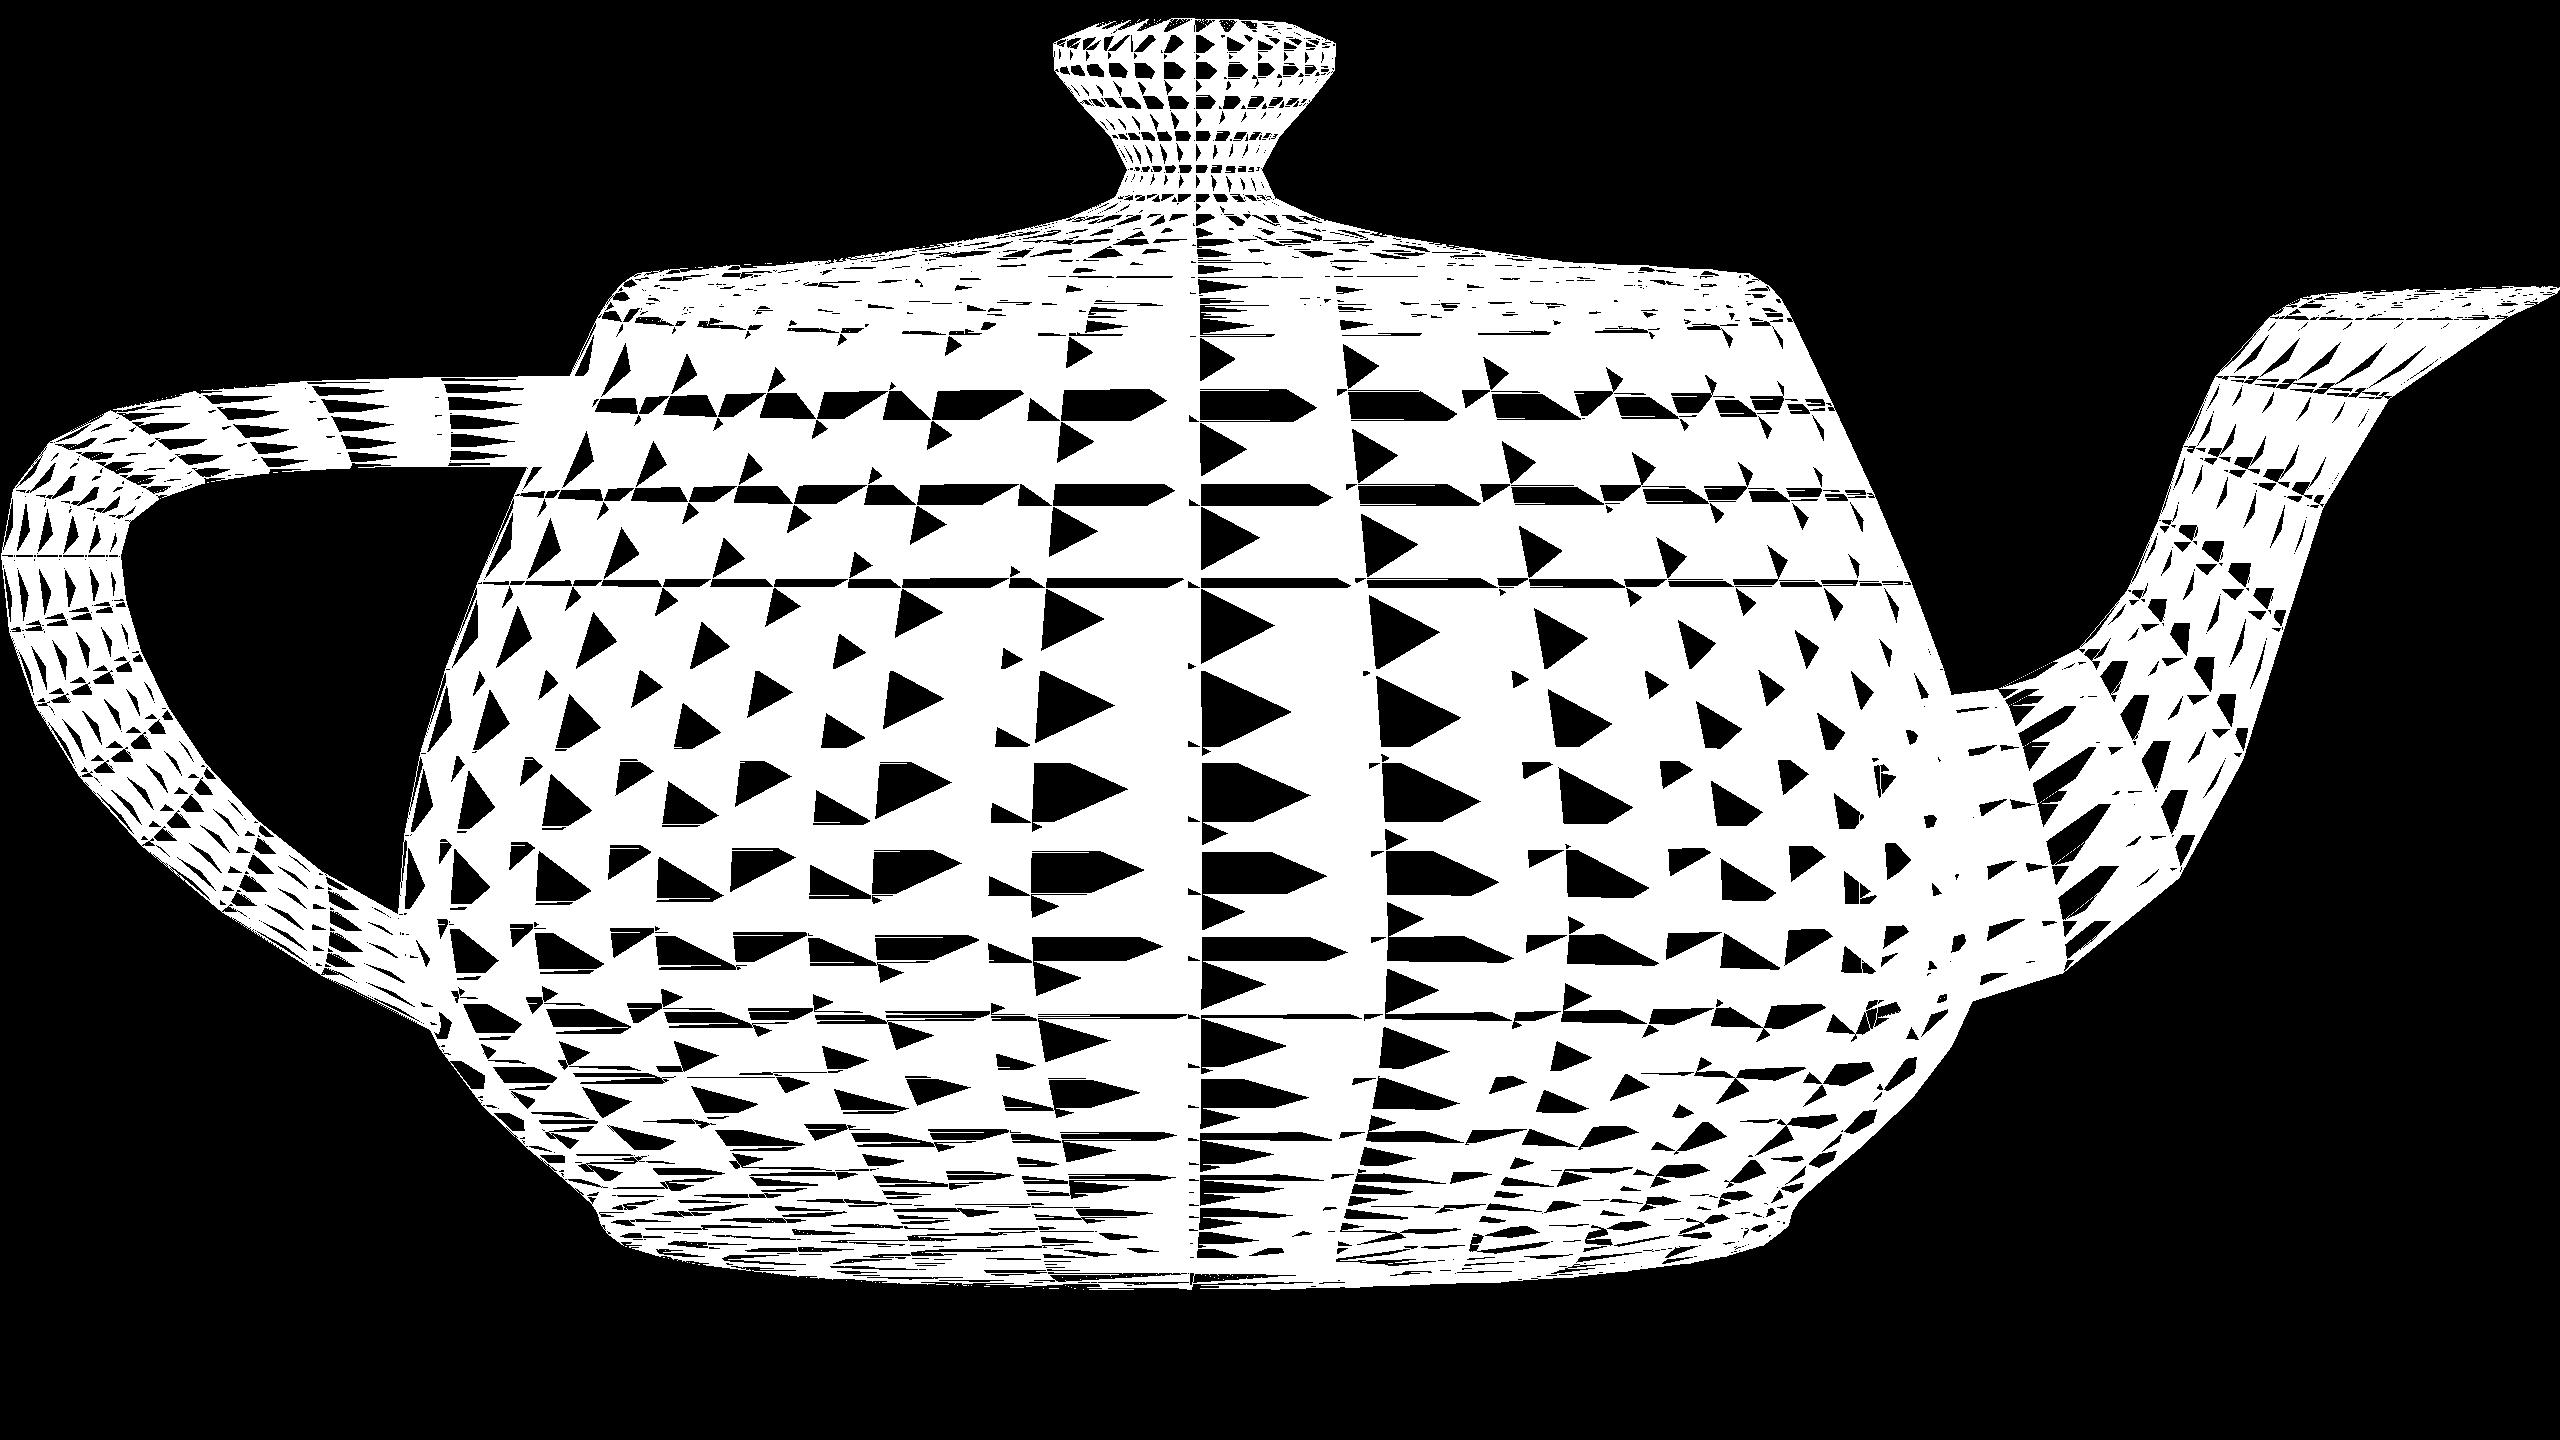
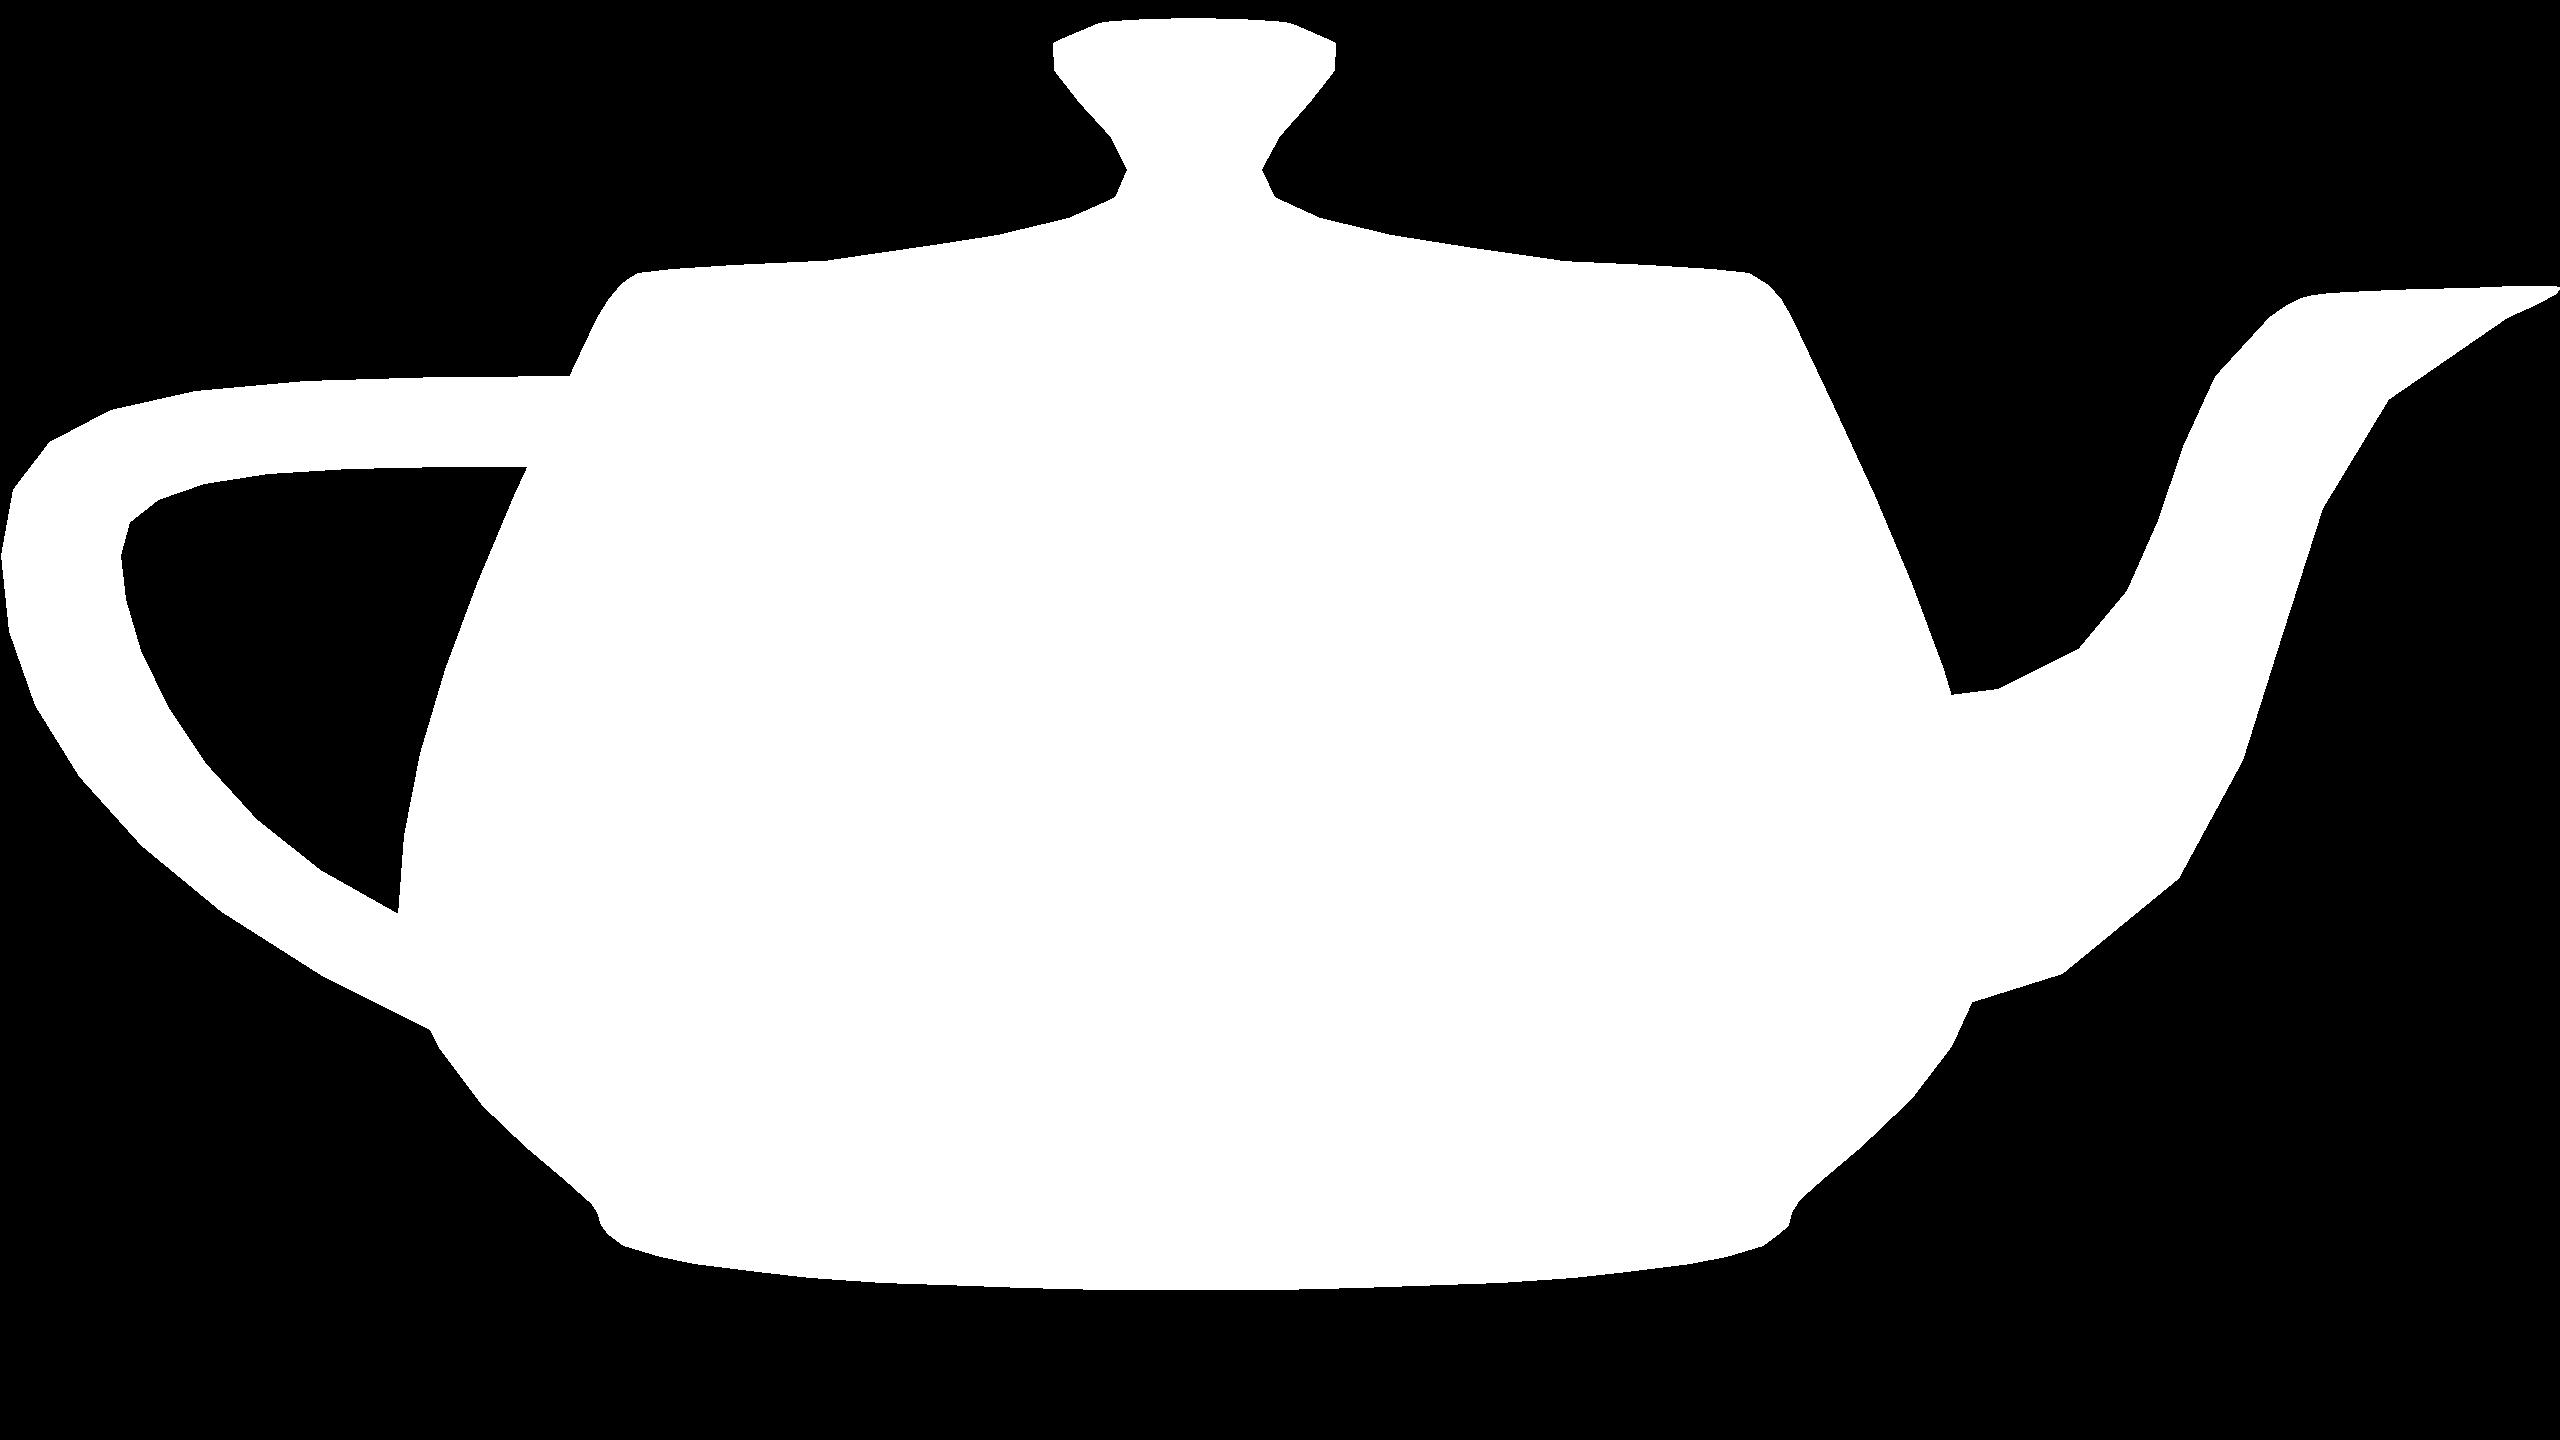
Fixed triangle render bug

diff --git a/Rasterizer-and-Ray-Tracer/src/main/java/Rasterizer.java b/Rasterizer-and-Ray-Tracer/src/main/java/Rasterizer.java
@@ -1,5 +1,6 @@
 package main.java;
 
+import java.awt.Color;
 import java.io.IOException;
 import java.util.ArrayList;
 import java.util.Comparator;
@@ -91,7 +92,7 @@ public class Rasterizer {
 			}
 			
 			for(int x=startX; x<=endX; x++) {
-				if(x < imageBuffer.getWidth() && y < imageBuffer.getHeight() ) {
+				if(x < imageBuffer.getWidth() && x > 0 && y < imageBuffer.getHeight() && y > 0) {
 					if(zBuffer.check(x, y, z)) {
 						// Paint pixel
 						imageBuffer.paintPixel(x,y);
@@ -157,19 +158,33 @@ public class Rasterizer {
 		for(int i=0; i<lines.length; i++) {
 			//i.e for each point in line
 			for(int j=0; j<lines[i].length; j++) {
+				int y = (int) lines[i][j][1];
 				
-				if(edgeList.containsKey((int) lines[i][j][1])) {
+				if(edgeList.containsKey(y)) {
 					float[] xz = {lines[i][j][0], lines[i][j][2]};
-					// Sort the floats[] by values of x
-					if(xz[0] < edgeList.get((int) lines[i][j][1]).getFirst()[0]) {
-						edgeList.get((int) lines[i][j][1]).add(0, xz);
+					
+					// Inset xz to the correct place in the linked list
+					boolean set = false;
+					for(int k=0; k<edgeList.get(y).size(); k++) {
+						float[] current = edgeList.get(y).get(k);
+						
+						if(xz[0] < current[0]) {
+							edgeList.get(y).add(k, xz);
+							set = true;
+							break;
+						}
 					}
+					
+					if(!set) {
+						edgeList.get(y).addLast(xz);
+					}
+					
 				}
 				else {
 					LinkedList<float[]> values = new LinkedList<float[]>();
 					float[] xz = {lines[i][j][0], lines[i][j][2]};
 					values.add(xz);
-					edgeList.put((int) lines[i][j][1], values);
+					edgeList.put(y, values);
 				}
 			}
 		}
@@ -190,28 +205,35 @@ public class Rasterizer {
 	 * @returns line The coordinates of the edge connecting two vertices with their corresponding z.
 	 */
 	private float[][] bresenham(int startX, int startY, float startZ, int endX, int endY, float endZ) {
+		
 		float[][] line = null;
 		
+		// Make sure startX < endX
 		if (startX > endX) {
 			line = bresenham(endX, endY, endZ, startX, startY, startZ);
 			return line;
 		}
 		else {
 			double gradient = 0;
-			
 			if((endY-startY) != 0) {
 				gradient = (double)(endY-startY)/(double)(endX-startX);
 			}
 			
+			// Negative gradient
 			if (gradient < 0) {
+				// Flip y signs and rerun
 				line = bresenham(startX, -startY, startZ, endX, -endY, endZ);
+				// Return y signs back to normal
 				for(int i=0; i<line.length; i++) {
 					line[i][1] *= -1;
 				}
 				return line;
 			}
+			// Gradient > 1
 			else if (gradient > 1) {
+				// Swap X and Y
 				line = bresenham(startY, startX, startZ, endY, endX, endZ);
+				// Swap X and Y back
 				for(int i=0; i<line.length; i++) {
 					float temp = line[i][0];
 					line[i][0] = line[i][1];
@@ -219,6 +241,7 @@ public class Rasterizer {
 				}
 				return line;
 			}
+			// 0 <= Gradient <= 1
 			else {
 				ArrayList<ArrayList<Integer>> points = new ArrayList<ArrayList<Integer>>();
 				int x = startX;
@@ -226,6 +249,7 @@ public class Rasterizer {
 				int dx = endX-startX;
 				int dy = endY-startY;
 				int d = (2*dy)-dx;
+				
 				while (x <= endX) {
 					ArrayList<Integer> point = new ArrayList<Integer>();
 					point.add(x);
@@ -243,17 +267,14 @@ public class Rasterizer {
 				
 				line = new float[points.size()][3];
 				
+				// Interpolate Z values along line
+				line[0][2] = Math.round(startZ*10f)/10f;
+				float zInc = (endZ-startZ)/((float)line.length-1f);
+				
 				for(int i=0; i<points.size(); i++) {
 					line[i][0] = points.get(i).get(0);
 					line[i][1] = points.get(i).get(1);
-				}
-				
-				// Interpolate Z values along line
-				line[0][2] = startZ;
-				float zInc = (endZ-startZ)/((float)line.length-1);
-				
-				for(int i=1; i<line.length; i++) {
-					line[i][2] = line[i-1][2] + zInc;
+					if (i>0) line[i][2] = ((Math.round((line[i-1][2] + zInc)*10f))/10f);
 				}
 				
 				return line;

diff --git a/Rasterizer-and-Ray-Tracer/src/main/java/ImageBuffer.java b/Rasterizer-and-Ray-Tracer/src/main/java/ImageBuffer.java
@@ -11,6 +11,8 @@ public class ImageBuffer extends Buffer {
 	
 	private int backgroundColour = Color.BLACK.getRGB();
 	
+	private int colour = Color.WHITE.getRGB();
+	
 	private BufferedImage bufferedImage;
 	
 	public ImageBuffer() {
@@ -41,7 +43,7 @@ public class ImageBuffer extends Buffer {
 	 * @param y
 	 */
 	public void paintPixel(int x, int y) {
-		bufferedImage.setRGB(x, y, Color.WHITE.getRGB());
+		bufferedImage.setRGB(x, y, colour);
 	}
 	
 	/*
@@ -52,5 +54,9 @@ public class ImageBuffer extends Buffer {
 		ImageIO.write(bufferedImage, "jpg", outputfile);
 		
 		
+	}
+	
+	public void setColour(int colour) {
+		this.colour = colour;
 	}
 }

diff --git a/Rasterizer-and-Ray-Tracer/src/main/java/Camera.java b/Rasterizer-and-Ray-Tracer/src/main/java/Camera.java
@@ -2,7 +2,11 @@ package main.java;
 
 public class Camera {
 	
-	// Identity roation
+	// Identity rotation (for airplane)
+//	private float[][] R = {{1,0,0}, 
+//		 				   {0,1,0}, 
+//		 				   {0,0,1}}; 
+	// Rotation in x of 90 degrees (for teapot)
 	private float[][] R = {{1,0,0}, 
 		 				   {0,0,-1}, 
 		 				   {0,1,0}}; 
